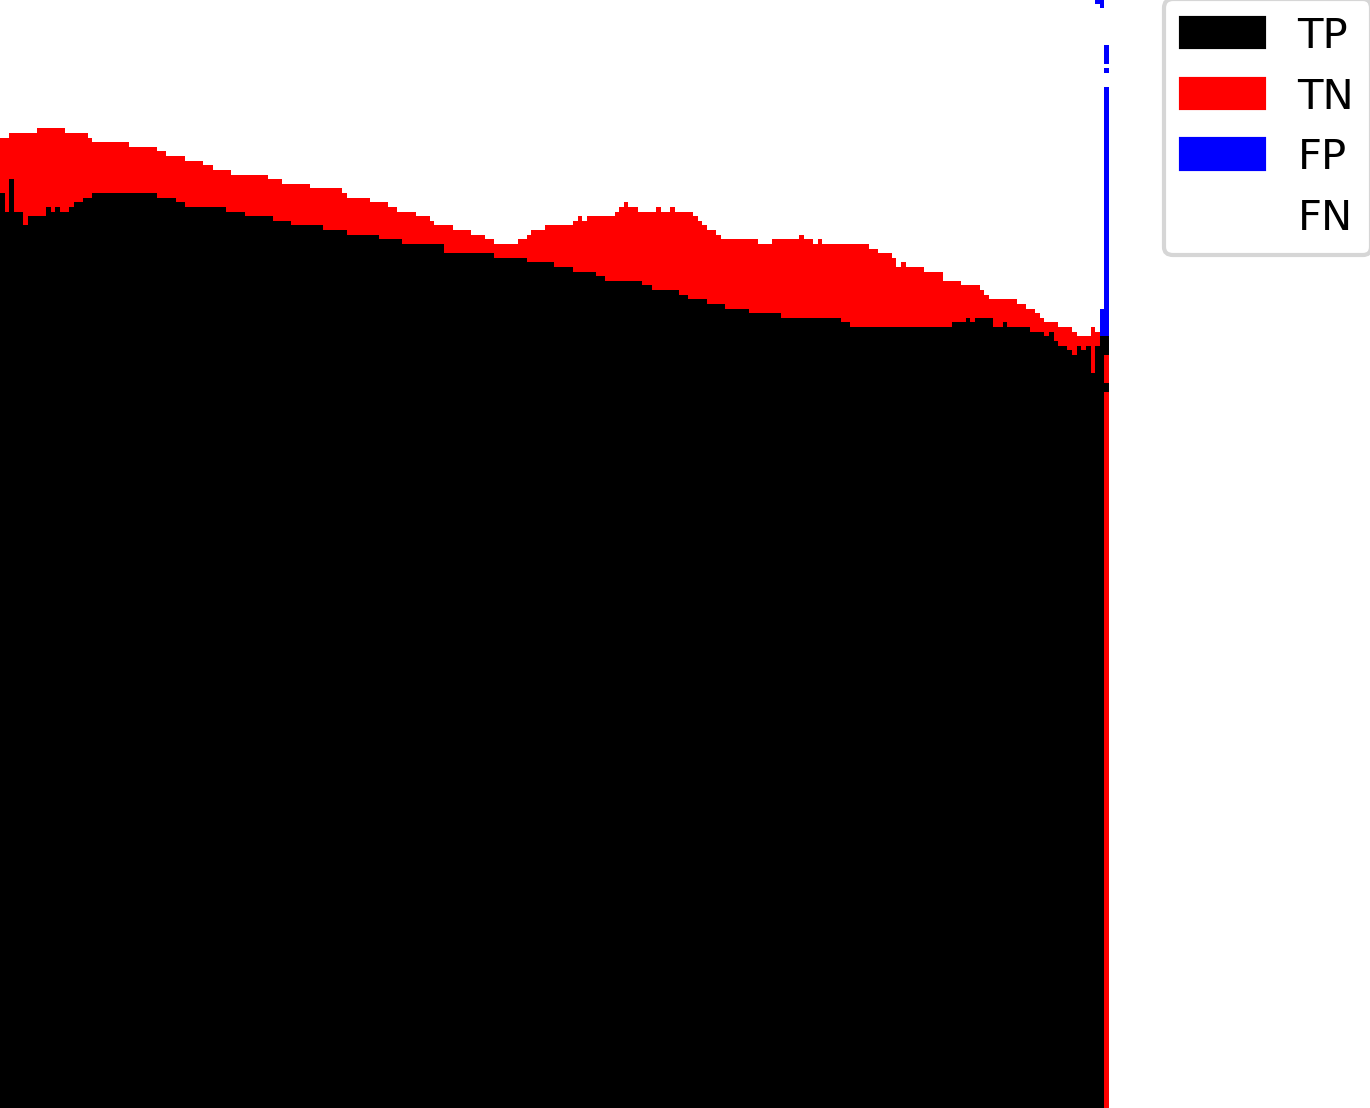
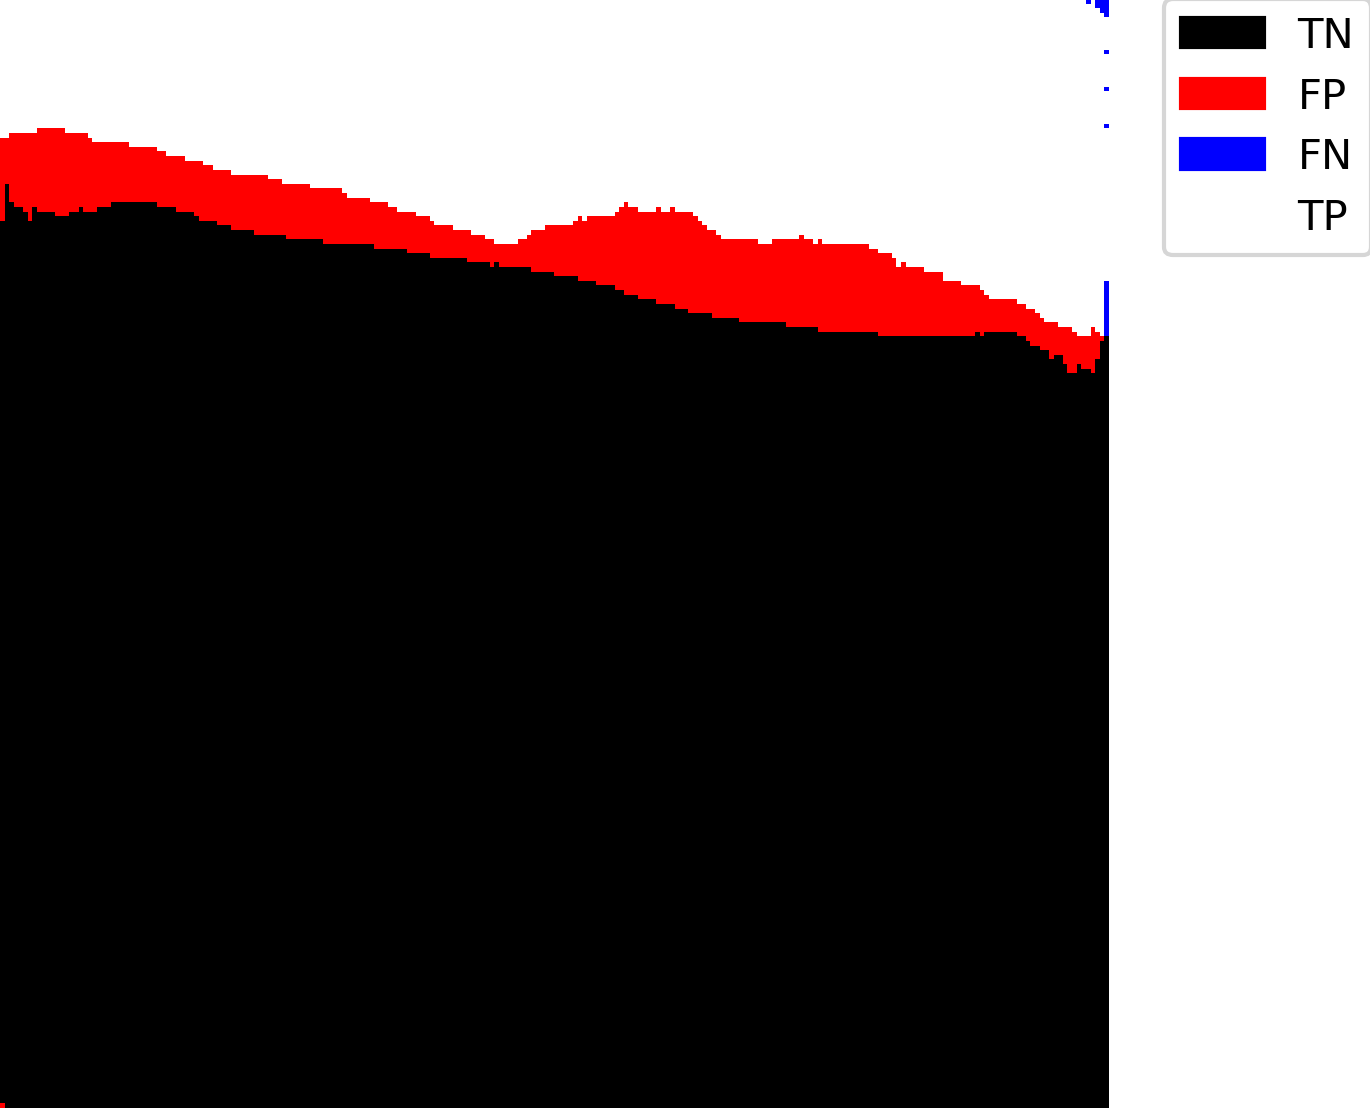
updated error map labels

diff --git a/src/IO.py b/src/IO.py
@@ -118,7 +118,7 @@ def SaveTrainingHistory(sOutDir, Model, history, TrainDir, ValDir, np1TestDir):
 def SavePredImgs(save_path, npPredImgs, GenTestInput, GenTestMask, lRange, lTissueType = ['RawIM', 'TCM'], lClasses = ['nucleus','other', 'lumen'], sFileType = 'png'):
     """ Saves images, and the input and truth images
     """
-    lLabels = ['TP','TN','FP','FN']
+    lLabels = ['TN','FP','FN','TP']
     dfConf = pd.DataFrame(columns = ['imagepath', 'fpr', 'fnr', 'auc', 'f1', 'recall', 'precision', 'Error Rate', 'optimal threshold', 'sensitivity', 'specificity', 'TN', 'TP', 'FP', 'FN'])
     
     # iterate through the prediction images
